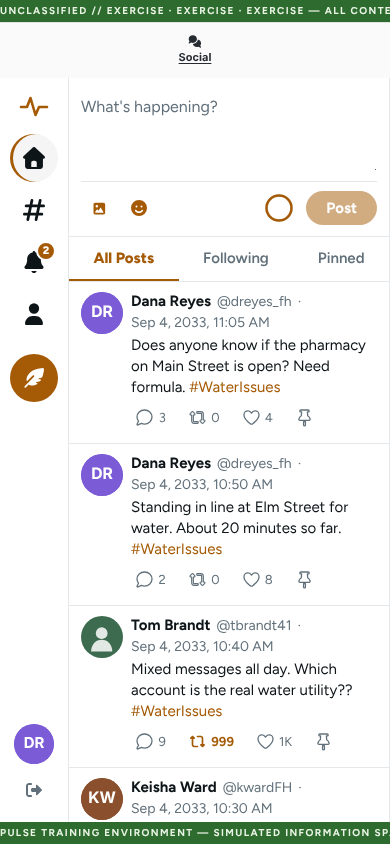
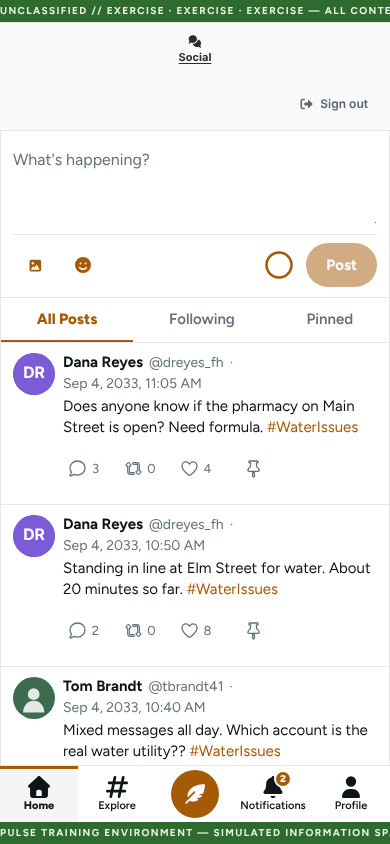
Mobile story 08: phone/tablet guide screenshots and participant guide (#524)
- tools/guide-screenshots: viewports move to viewports.mjs (DESKTOP,
  DESKTOP_TALL, PHONE, PHONE_SMALL, TABLET) with a `mobile` flag that drives
  isMobile/hasTouch instead of object identity. A shot's `variants` list
  expands into `<name>-<suffix>` jobs; `--list` prints them; a base name on
  the command line selects the shot and its variants.
- feed, thread, composer and alert-bar now also ship -360 and -tablet
  variants. All eight participant shots recaptured after the B1 fixes
  (bottom tab bar, touch targets, wrapped alert bar, holding page).
- participant guide: "On a phone or tablet" section with the -360 and
  -tablet feed images and alt text. The home-screen link waits for B2.
- Story 08 ACs and README updated.

Claude-Session: https://claude.ai/code/session_01U3vMDEWWTmn3dTKCgdZQwV

diff --git a/docs/features/mobile-tablet/08-guide-screenshots-participant.md b/docs/features/mobile-tablet/08-guide-screenshots-participant.md
@@ -1,7 +1,7 @@
 # Story: Phone/tablet guide screenshots and participant guide
 
-**Feature:** Phones and tablets  ·  **Epic:** cross-cutting  ·  **Phase:** 2  ·  **Status:** Not Started
-**Requirements:** docs-as-done (Brief C5)  ·  **Design decisions:** none  ·  **Issue:** —
+**Feature:** Phones and tablets  ·  **Epic:** cross-cutting  ·  **Phase:** 2  ·  **Status:** In Review (home-screen link waits for B2 #605)
+**Requirements:** docs-as-done (Brief C5)  ·  **Design decisions:** none  ·  **Issue:** #524
 
 ## Context
 `tools/guide-screenshots` captures participant shots at a single 390x844 phone viewport and decides mobile emulation by
@@ -10,11 +10,11 @@ B1 fixes, and add a short phone/tablet section to the participant guide. Kept as
 a line in every story, because `capture.mjs` is one file.
 
 ## Acceptance Criteria
-- [ ] Given `capture.mjs`, when viewports are declared, then mobile and touch emulation is driven by a flag on the viewport, not object identity, and `--list` prints shot names including size suffixes.
-- [ ] Given `node capture.mjs participant-feed participant-alert-bar participant-composer participant-thread`, then each is produced at 390 (existing file names unchanged) and the new `-360` / `-tablet` (768x1024) variants, with no spinner, empty state or wrong page (visually opened).
-- [ ] Given the alert-bar shot, then it shows the wrapped full message and the Details link, replacing the pre-fix image.
-- [ ] Given `docs/guide/participant-guide.md` and its printable one-pager, then they state supported phones/tablets, how to add the exercise to the home screen (after stories 09-11 land, link only), and use the new images with alt text.
-- [ ] Given the mock-only rule, then no shot contains real data and any tokens are `MockTkn...` placeholders.
+- [x] Given `capture.mjs`, when viewports are declared, then mobile and touch emulation is driven by a flag on the viewport, not object identity, and `--list` prints shot names including size suffixes. *(Viewports moved to `viewports.mjs` with a `mobile` flag and a `suffix`; a shot's `variants` list expands into `<name>-<suffix>` jobs. A base name on the command line selects the shot and its variants.)*
+- [x] Given `node capture.mjs participant-feed participant-alert-bar participant-composer participant-thread`, then each is produced at 390 (existing file names unchanged) and the new `-360` / `-tablet` (768x1024) variants, with no spinner, empty state or wrong page (visually opened). *(12/12, all opened. The other four participant shots, join / sign-in / alerts / holding page, were recaptured too so the guide matches the B1 fixes.)*
+- [x] Given the alert-bar shot, then it shows the wrapped full message and the Details link, replacing the pre-fix image.
+- [ ] Given `docs/guide/participant-guide.md` and its printable one-pager, then they state supported phones/tablets, how to add the exercise to the home screen (after stories 09-11 land, link only), and use the new images with alt text. *(Partly done: an "On a phone or tablet" section with the `-360` and `-tablet` feed images and alt text. There is no separate participant one-pager; the guide itself is the keep-it-handy page. The home-screen link is added once B2 (#605) merges.)*
+- [x] Given the mock-only rule, then no shot contains real data and any tokens are `MockTkn...` placeholders. *(All shots use the Coastal Surge mock; none shows a token.)*
 
 ## Out of Scope
 Controller tablet shots and controller guide (story 16), a visual-regression pipeline, CI wiring.
@@ -28,3 +28,5 @@ Stories 02, 03, 04, 05 (so the shots show fixed screens).
 
 ## Tests
 Manual: run the capture and open every PNG. README updated with the new viewports.
+
+Note: run the capture from a checkout with its own `src/frontend/node_modules`. A symlinked `node_modules` (e.g. a git worktree) sits outside Vite's serving allow-list, so the brand font is blocked and the shots fall back to a system font.

diff --git a/tools/guide-screenshots/README.md b/tools/guide-screenshots/README.md
@@ -21,21 +21,38 @@ Prerequisites: Node 22+, `src/frontend/node_modules` installed (`npm ci` in
 `src/frontend`), and a Chromium. In the cloud dev container Chromium is at
 `/opt/pw-browsers/chromium`; elsewhere set `CHROMIUM_PATH` to any Chrome/Chromium
 binary (or install one with `npx playwright-core install chromium`).
+`src/frontend/node_modules` must be a real directory in this checkout. In a git worktree
+whose `node_modules` is a symlink to another checkout, Vite refuses to serve the brand
+font from outside its allow-list, and the shots fall back to a system font.
 
 ```bash
 cd tools/guide-screenshots
 npm install                         # once
 npm run capture                     # all shots -> docs/guide/img/*.png
 node capture.mjs roster day-word    # only some shots
-node capture.mjs --list             # shot names
+node capture.mjs participant-feed   # a shot AND its size variants
+node capture.mjs participant-feed-360   # just one size variant
+node capture.mjs --list             # shot names, size variants included
 ```
 
 `capture.mjs` starts its own Vite dev server on **port 5199** (it does not touch
 your `npm run dev` on 5198) and stops it when done. To reuse a server you already
 started with `node serve.mjs`, set `GUIDE_SHOTS_URL=http://localhost:5199`.
 
-Viewports: staff screens 1440x900 (console panel crops use 1440x1150 so the panel
-shows more rows), participant screens 390x844 (phone).
+Viewports live in `viewports.mjs`:
+
+| Constant | Size | Mobile + touch | Used for |
+|----------|------|----------------|----------|
+| `DESKTOP` | 1440x900 | no | staff screens (default) |
+| `DESKTOP_TALL` | 1440x1150 | no | cropped console panels, so a panel shows more rows |
+| `PHONE` | 390x844 | yes | participant screens (primary size, no file suffix) |
+| `PHONE_SMALL` | 360x800 | yes | `-360` variants of the core participant screens |
+| `TABLET` | 768x1024 | yes | `-tablet` variants of the core participant screens |
+
+Mobile and touch emulation comes from each viewport's `mobile` flag, so phone and
+tablet shots render the coarse-pointer (touch-sized) layout a real device gets.
+Other tooling can import these constants from `viewports.mjs`; `capture.mjs` runs
+its capture on import.
 
 ## Why its own dev server
 
@@ -66,7 +83,8 @@ If a mock seam is renamed in `src/`, the server fails loudly with
      name: 'my-screen',          // -> docs/guide/img/my-screen.png (docs link to this name)
      role: 'controller',         // mock session role
      path: '/staff/console',     // URL to open
-     viewport: MOBILE,           // optional; default DESKTOP (1440x900)
+     viewport: PHONE,            // optional; default DESKTOP (1440x900)
+     variants: [PHONE_SMALL, TABLET], // optional: also writes my-screen-360.png, my-screen-tablet.png
      storage: { … },             // optional extra localStorage keys
      act: async page => { … },   // optional clicks / typing (Playwright Page API)
      crop: page => locator,      // optional: capture only this element (or an array: their union)
@@ -84,6 +102,7 @@ strip.
 ## Files
 
 - `capture.mjs`: the shot list and the capture loop.
+- `viewports.mjs`: the viewport sizes and their mobile flag.
 - `serve.mjs`: starts the mock dev server with the override plugin.
 - `package.json` / `package-lock.json`: `playwright-core` only. `node_modules/` is
   git-ignored by the root `.gitignore`.

diff --git a/docs/guide/participant-guide.md b/docs/guide/participant-guide.md
@@ -56,6 +56,27 @@ tab or lock your phone. If you are on a shared computer, select **Sign out** whe
 
 ![The post composer, with the text box, photo and emoji buttons, and the Post button.](img/participant-composer.png)
 
+### On a phone or tablet
+
+Pulse is built for phones first. It works on any current iPhone or Android phone, including small
+ones, and on tablets held either way up. Use the phone's normal browser (Safari on iPhone and iPad,
+Chrome on Android).
+
+- **On a phone**, the buttons along the bottom are how you move around. Tap the round **Post**
+  button in the middle to write a post. Buttons are sized for your thumb, so you should not need to
+  zoom.
+- **On a tablet**, the same buttons are in a column on the left, as on a computer.
+- **The EXERCISE banners** at the very top and bottom of the screen always stay visible. Nothing
+  you need sits underneath them.
+- **When the keyboard is open**, the **Post** button stays above it, so you can send without
+  closing the keyboard.
+- **To leave a full-screen photo**, swipe back or tap **Close**. You return to the same place in
+  the feed.
+
+![The exercise feed on a small phone, with Home, Explore, Post, Notifications and Profile along the bottom.](img/participant-feed-360.png)
+
+![The exercise feed on a tablet, with the same buttons in a column on the left.](img/participant-feed-tablet.png)
+
 Read carefully before you trust or share a post. **Not every account is what it seems.** Lookalike
 accounts are part of the exercise.
 
